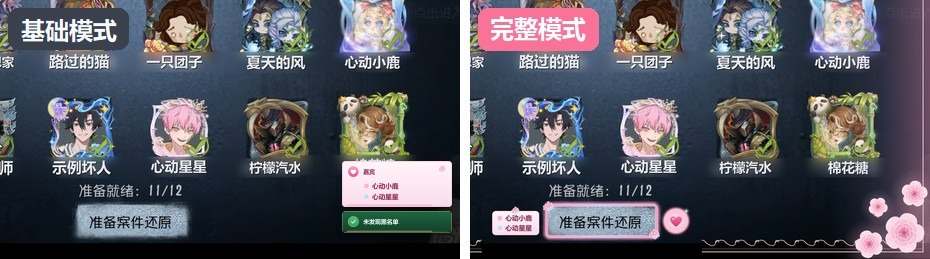
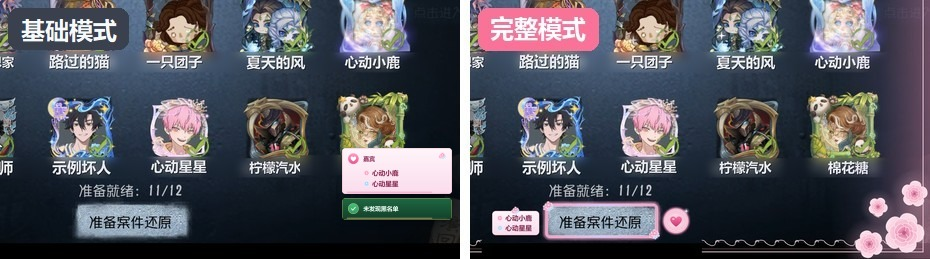
显示's second guide picture no longer shows half a lobby name above its corner cards.

Changed region(s): [[0.343, 0.556, 0.4989, 0.9266]]

diff --git a/build/display_diff.py b/build/display_diff.py
@@ -38,8 +38,8 @@ LOBBY_AT = (247, 123)
 HALF_WIDTH = 460
 # The lobby under the cards that comes back, in the picture: left, top, right, bottom (exclusive).
 PATCH = (300, 120, HALF_WIDTH - 1, 243)
-# The cards' corner in the picture (right and bottom edges) and their scale, a logical px to a picture px,
-# as the cards were shot before.
+# The cards' corner in the picture (right edge, and the bottom of the tallest stack) and their scale, a logical px
+# to a picture px, as the cards were shot before.
 CORNER = (452, 233)
 CARD_SCALE = 0.367
 # Cards are drawn this many times larger, then brought down, so their words stay sharp.
@@ -109,18 +109,21 @@ def main() -> None:
     lobby = cv2.imread(str(ASSETS / "sample-lobby.jpg"))
     lobby = cv2.resize(lobby, None, fx=LOBBY_SCALE, fy=LOBBY_SCALE, interpolation=cv2.INTER_AREA)
     left, top, right, bottom = PATCH
-    for name, (hits, likes) in PICTURES.items():
+    gap = round(_GAP * CARD_SCALE)
+    stacks = {name: card_pictures(hits, likes) for name, (hits, likes) in PICTURES.items()}
+    # Every picture's cards start where the tallest stack's do, down from CORNER: a shorter stack put on the
+    # corner left half a lobby name showing above its top card.
+    first = min(CORNER[1] - sum(card.shape[0] + gap for card in cards) + gap for cards in stacks.values())
+    for name, cards in stacks.items():
         path = ASSETS / name
         picture = cv2.imread(str(path))
         x, y = LOBBY_AT
         picture[top:bottom, left:right] = lobby[y + top : y + bottom, x + left : x + right]
-        place = CORNER[1]
-        gap = round(_GAP * CARD_SCALE)
-        for card in card_pictures(hits, likes):
+        place = first
+        for card in reversed(cards):
             height, width = card.shape[:2]
-            place -= height
             put(picture[:, :HALF_WIDTH], card, CORNER[0] - width, place)
-            place -= gap
+            place += height + gap
         cv2.imwrite(str(path), picture, [cv2.IMWRITE_JPEG_QUALITY, 92])
         print(f"{name}: {picture.shape[1]}x{picture.shape[0]}")
 
